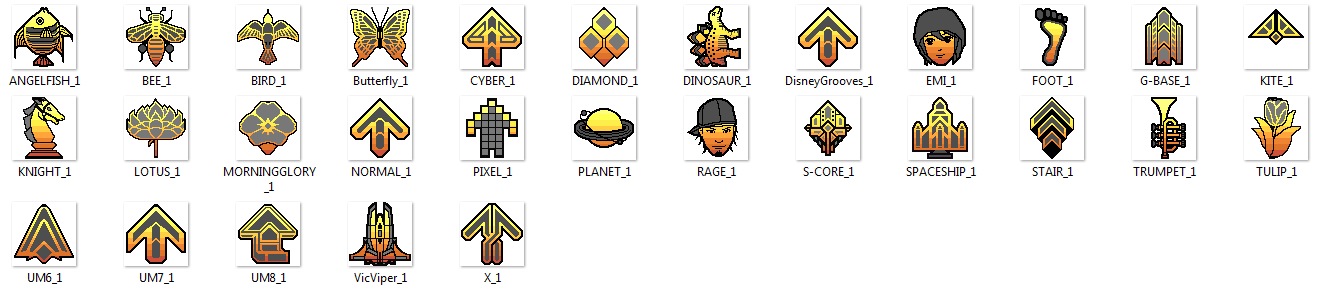
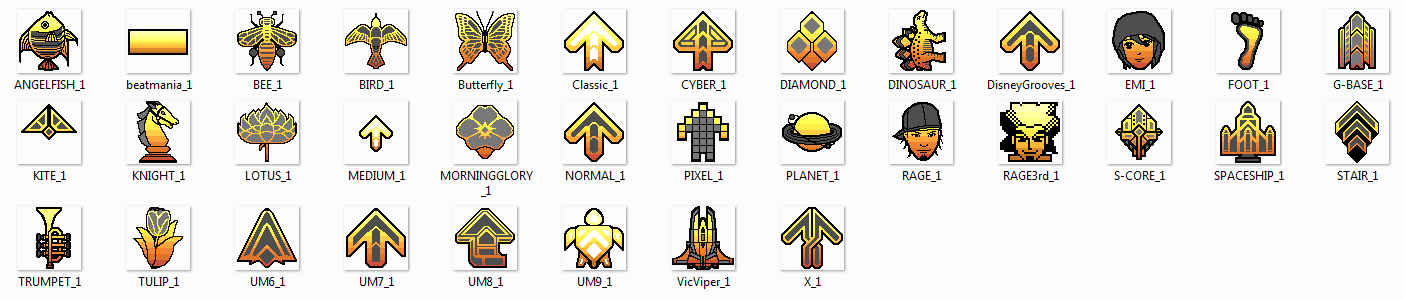
Updated information

diff --git a/README.md b/README.md
@@ -9,11 +9,15 @@ This information include a bit of information of the NoteSkin, and the game/syst
 
 **ANGELFISH:** Made its appearance in SuperNOVA/X series. *(PS2/Arcade)*
 
+**beatmania:** Made its appearance in DDR2nd Mix Dreamcast. *(Dreamcast)*
+
 **BEE:** Made its appearance in SuperNOVA/X series. *(PS2/Arcade)*
 
 **BIRD:** Made its appearance in SuperNOVA/X series. *(PS2/Arcade)*
 
 **Butterfly:** Made its appearance in SuperNOVA/X series. *(PS2/Arcade)*
+
+**CLASSIC:** Made its appearance in SuperNOVA/X series. *(PS2/Arcade)*
 
 **CYBER:** Made its appearance in SuperNOVA/X series. *(PS2/Arcade)*
 
@@ -35,6 +39,8 @@ This information include a bit of information of the NoteSkin, and the game/syst
 
 **LOTUS:** Made its appearance in SuperNOVA/X series. *(PS2/Arcade)*
 
+**MEDIUM:** Made its appearance in SuperNOVA/X series. *(PS2/Arcade)*
+
 **MORNINGGLORY:** Made its appearance in SuperNOVA/X series. *(PS2/Arcade)*
 
 **NORMAL:** Made its appearance in DDR MAX series. *(PS2/Arcade)*
@@ -44,6 +50,8 @@ This information include a bit of information of the NoteSkin, and the game/syst
 **PLaNET:** Made its appearance in SuperNOVA/X series. *(PS2/Arcade)*
 
 **RAGE:** Made its appearance in SuperNOVA/X series. *(PS2/Arcade)*
+
+**RAGE3rd:** Made its appearance in DDR3rd Mix. *(PSX/Arcade)*
 
 **S-CORE:** Made its appearance in SuperNOVA/X series. *(PS2/Arcade)*
 
@@ -60,6 +68,8 @@ This information include a bit of information of the NoteSkin, and the game/syst
 **UM7:** Made its appearance in Ultramix series. *(Xbox)*
 
 **UM8:** Made its appearance in Ultramix series. *(Xbox)*
+
+**UM9:** Made its appearance in Ultramix series. *(Xbox)*
 
 **VicViper:** Made its appearance in SuperNOVA/X series. *(PS2/Arcade)*
 
